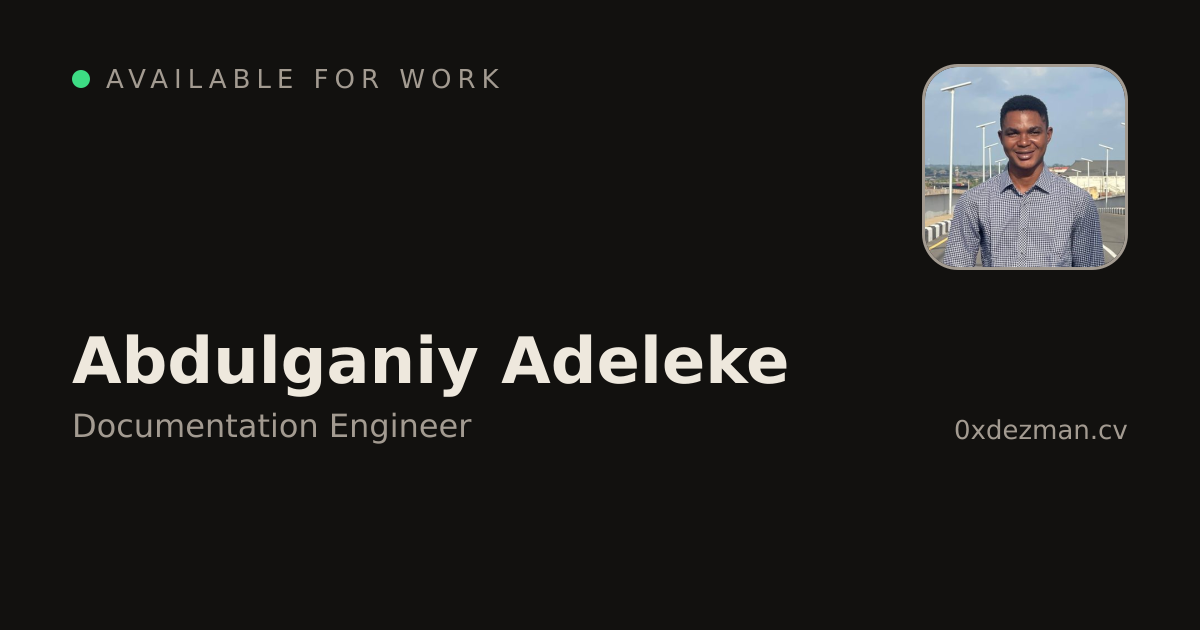
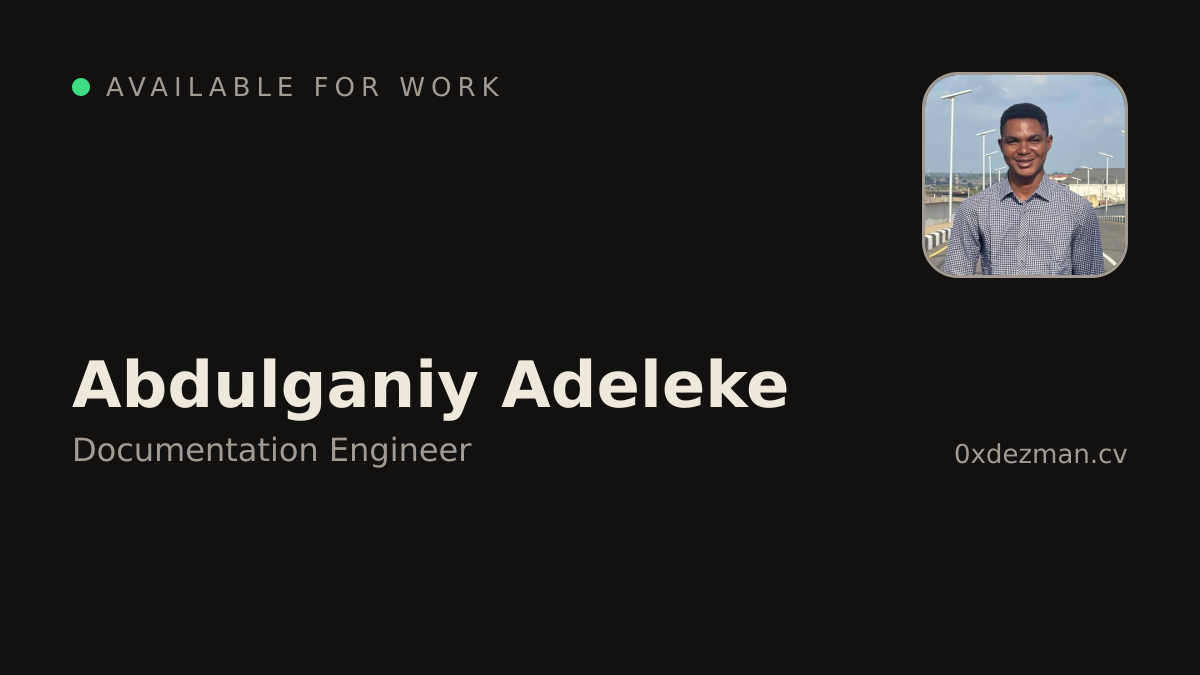
fix(og): render social cards at 16:9 to fill link previews

diff --git a/app/blog/(articles)/tui-vs-cli/page.tsx b/app/blog/(articles)/tui-vs-cli/page.tsx
@@ -15,7 +15,7 @@ export const metadata: Metadata = {
     description:
       "A simple explainer on how TUIs and CLIs differ in expressing intent, terminal output, and automation — with Git and Lazygit.",
     type: "article",
-    images: [{ url: "/og/tui-vs-cli.png", width: 1200, height: 630 }],
+    images: [{ url: "/og/tui-vs-cli.png", width: 1200, height: 675 }],
   },
   twitter: {
     card: "summary_large_image",

diff --git a/app/layout.tsx b/app/layout.tsx
@@ -18,7 +18,7 @@ export const metadata: Metadata = {
     description:
       "Proof-first DevRel portfolio featuring projects, content, open-source contributions, and community work.",
     type: "website",
-    images: [{ url: "/og/profile.png", width: 1200, height: 630 }],
+    images: [{ url: "/og/profile.png", width: 1200, height: 675 }],
   },
   twitter: {
     card: "summary_large_image",
